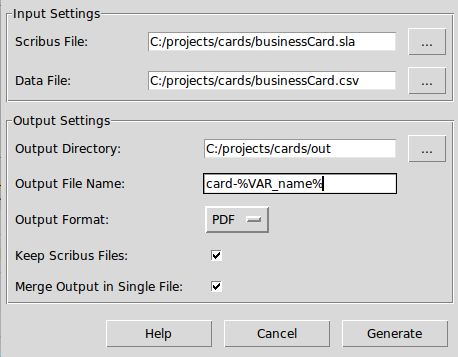
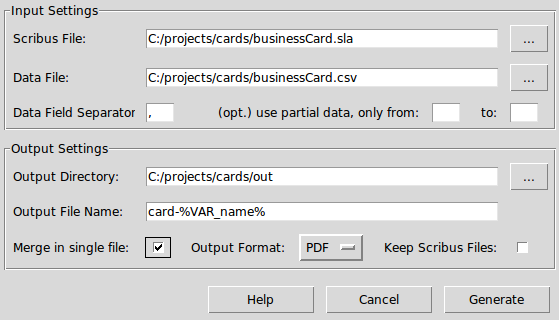
range functionality: added to GUI and documentation

diff --git a/ScribusGenerator.py b/ScribusGenerator.py
@@ -50,6 +50,10 @@ class GeneratorControl:
         self.__selectedOutputFormat.set(CONST.FORMAT_PDF)
         self.__keepGeneratedScribusFilesCheckboxVariable = IntVar()
         self.__mergeOutputCheckboxVariable = IntVar()
+        self.__fromVariable = StringVar()
+        self.__fromVariable.set(CONST.EMPTY)
+        self.__toVariable = StringVar()
+        self.__toVariable.set(CONST.EMPTY)
         self.__root = root
         if scribus.haveDoc():
             doc = scribus.getDocName()
@@ -103,6 +107,12 @@ class GeneratorControl:
     def getMergeOutputCheckboxVariable(self):
         return self.__mergeOutputCheckboxVariable
   
+    def getFromVariable(self):
+        return self.__fromVariable
+  
+    def getToVariable(self):
+        return self.__toVariable
+
     def allValuesSet(self):
         # Simple check whether input fields are NOT EMPTY.
         # The user could fill in crap into the input fields. This would lead to an error, but crap in crap out!
@@ -124,7 +134,9 @@ class GeneratorControl:
             outputFormat = self.__selectedOutputFormat.get(),
             keepGeneratedScribusFiles = self.__keepGeneratedScribusFilesCheckboxVariable.get(),
             csvSeparator = self.__dataSeparatorEntryVariable.get(), 
-            singleOutput = self.__mergeOutputCheckboxVariable.get()
+            singleOutput = self.__mergeOutputCheckboxVariable.get(),
+            firstRow = self.__fromVariable.get(),
+            lastRow = self.__toVariable.get()
             )
         return result
     
@@ -149,7 +161,7 @@ class GeneratorControl:
             tkMessageBox.showerror(title='Validation failed', message='Please check if all settings have been set correctly!')
     
     def helpButtonHandler(self):
-        tkMessageBox.showinfo('Help', message="For any information please visit:\nhttps://github.com/berteh/ScribusGenerator/")
+        tkMessageBox.showinfo('Help', message="More information at :\nhttps://github.com/berteh/ScribusGenerator/")
  
 class GeneratorDialog:
     # The UI to configure the settings by the user
@@ -190,55 +202,69 @@ class GeneratorDialog:
         # Input-Settings
         scribusSourceFileLabel = Label(inputFrame, text='Scribus File:', width=15, anchor='w')
         scribusSourceFileLabel.grid(column=0, row=0, padx=5, pady=5, sticky='w')
-        scribusSourceFileEntry = Entry(inputFrame, width=70, textvariable=self.__ctrl.getScribusSourceFileEntryVariable())
-        scribusSourceFileEntry.grid(column=1, row=0, padx=5, pady=5, sticky='ew')
+        scribusSourceFileEntry = Entry(inputFrame, textvariable=self.__ctrl.getScribusSourceFileEntryVariable())
+        scribusSourceFileEntry.grid(column=1, columnspan=4, row=0, padx=5, pady=5, sticky='ew')
         scribusSourceFileButton = Button(inputFrame, text='...', command=self.__ctrl.scribusSourceFileEntryVariableHandler)
-        scribusSourceFileButton.grid(column=2, row=0, padx=5, pady=5, sticky='e')
+        scribusSourceFileButton.grid(column=5, row=0, padx=5, pady=5, sticky='e')
         
         dataSourceFileLabel = Label(inputFrame, text='Data File:', width=15, anchor='w')
         dataSourceFileLabel.grid(column=0, row=1, padx=5, pady=5, sticky='w')
-        dataSourceFileEntry = Entry(inputFrame, width=70, textvariable=self.__ctrl.getDataSourceFileEntryVariable())
-        dataSourceFileEntry.grid(column=1, row=1, padx=5, pady=5, sticky='ew')
+        dataSourceFileEntry = Entry(inputFrame, textvariable=self.__ctrl.getDataSourceFileEntryVariable())
+        dataSourceFileEntry.grid(column=1, columnspan=4, row=1, padx=5, pady=5, sticky='ew')
         dataSourceFileButton = Button(inputFrame, text='...', command=self.__ctrl.dataSourceFileEntryVariableHandler)
-        dataSourceFileButton.grid(column=2, row=1, padx=5, pady=5, sticky='e')
+        dataSourceFileButton.grid(column=5, row=1, padx=5, pady=5, sticky='e')
         
         dataSeparatorLabel = Label(inputFrame, text='Data Field Separator:', width=15, anchor='w')
         dataSeparatorLabel.grid(column=0, row=2, padx=5, pady=5, sticky='w')
         dataSeparatorEntry = Entry(inputFrame, width=3, textvariable=self.__ctrl.getDataSeparatorEntryVariable())
         dataSeparatorEntry.grid(column=1, row=2, padx=5, pady=5, sticky='w')
 
+        fromLabel = Label(inputFrame, text='(opt.) use partial data, only from:', anchor='e')
+        fromLabel.grid(column=2, row=2, padx=5, pady=5, sticky='e')
+        fromEntry = Entry(inputFrame, width=3, textvariable=self.__ctrl.getFromVariable())
+        fromEntry.grid(column=3, row=2, padx=5, pady=5, sticky='w')
+
+        toLabel = Label(inputFrame, text='to:', width=3, anchor='e')
+        toLabel.grid(column=4, row=2, padx=5, pady=5, sticky='e')
+        toEntry = Entry(inputFrame, width=3, textvariable=self.__ctrl.getToVariable())
+        toEntry.grid(column=5, row=2, padx=5, pady=5, sticky='w')
+
+        #rangeHelp = Label(inputFrame, text='(set to 0 to neglect)', width=30, anchor='w')
+        #rangeHelp.grid(column=4, columnspan=2,  row=4, padx=5, pady=5, sticky='w')
+   
+
 
         # Output-Settings
         outputDirectoryLabel = Label(outputFrame, text='Output Directory:', width=15, anchor='w')
         outputDirectoryLabel.grid(column=0, row=0, padx=5, pady=5, sticky='w')
-        outputDirectoryEntry = Entry(outputFrame, width=70, textvariable=self.__ctrl.getOutputDirectoryEntryVariable())
-        outputDirectoryEntry.grid(column=1, row=0, padx=5, pady=5, sticky='ew')
+        outputDirectoryEntry = Entry(outputFrame, textvariable=self.__ctrl.getOutputDirectoryEntryVariable())
+        outputDirectoryEntry.grid(column=1, columnspan=4, row=0, padx=5, pady=5, sticky='ew')
         outputDirectoryButton = Button(outputFrame, text='...', command=self.__ctrl.outputDirectoryEntryVariableHandler)
-        outputDirectoryButton.grid(column=2, row=0, padx=5, pady=5, sticky='e')
+        outputDirectoryButton.grid(column=5, row=0, padx=5, pady=5, sticky='e')
         
         outputFileNameLabel = Label(outputFrame, text='Output File Name:', width=15, anchor='w')
         outputFileNameLabel.grid(column=0, row=1, padx=5, pady=5, sticky='w')
-        outputFileNameEntry = Entry(outputFrame, width=70, textvariable=self.__ctrl.getOutputFileNameEntryVariable())
-        outputFileNameEntry.grid(column=1, row=1, padx=5, pady=5, sticky='ew')
+        outputFileNameEntry = Entry(outputFrame, textvariable=self.__ctrl.getOutputFileNameEntryVariable())
+        outputFileNameEntry.grid(column=1, columnspan=4, row=1, padx=5, pady=5, sticky='ew')
          
-        keepGeneratedScribusFilesLabel = Label(outputFrame, text='Keep Scribus Files:', width=15, anchor='w')
-        keepGeneratedScribusFilesLabel.grid(column=0, row=3, padx=5, pady=5, sticky='w')
-        keepGeneratedScribusFilesCheckbox = Checkbutton(outputFrame, variable=self.__ctrl.getKeepGeneratedScribusFilesCheckboxVariable())
-        keepGeneratedScribusFilesCheckbox.grid(column=1, row=3, padx=5, pady=5, sticky='w')
-
-
-        mergeOutputLabel = Label(outputFrame, text='Merge Output in Single File:', width=22, anchor='w')
-        mergeOutputLabel.grid(column=0, row=4, padx=5, pady=5, sticky='w')
+        mergeOutputLabel = Label(outputFrame, text='Merge in Single File:', width=15, anchor='w')
+        mergeOutputLabel.grid(column=0, row=2, padx=5, pady=5, sticky='w')
         mergeOutputCheckbox = Checkbutton(outputFrame, variable=self.__ctrl.getMergeOutputCheckboxVariable())
-        mergeOutputCheckbox.grid(column=1, row=4, padx=5, pady=5, sticky='w')
+        mergeOutputCheckbox.grid(column=1, row=2, padx=5, pady=5, sticky='w')  
 
-        
-        outputFormatLabel = Label(outputFrame, text='Output Format:', width=15, anchor='w')
-        outputFormatLabel.grid(column=0, row=2, padx=5, pady=5, sticky='w')
-        outputFormatListBox = OptionMenu(outputFrame, self.__ctrl.getSelectedOutputFormat(), *self.__ctrl.getOutputFormatList()) #, 
+        outputFormatLabel = Label(outputFrame, text='Output Format:', anchor='e')
+        outputFormatLabel.grid(column=2, row=2, padx=5, pady=5, sticky='e')
+        outputFormatListBox = OptionMenu(outputFrame, self.__ctrl.getSelectedOutputFormat(), *self.__ctrl.getOutputFormatList()) #,
             #command=lambda l=keepGeneratedScribusFilesLabel, c=keepGeneratedScribusFilesCheckbox, v=self.__ctrl.getSelectedOutputFormat(): self.updateDisabled(v, l,c))
-        outputFormatListBox.grid(column=1, row=2, padx=5, pady=5, sticky='w')
+        outputFormatListBox.grid(column=3, row=2, padx=5, pady=5, sticky='w')
       
+        keepGeneratedScribusFilesLabel = Label(outputFrame, text='Keep Scribus Files:', width=15, anchor='e')
+        keepGeneratedScribusFilesLabel.grid(column=4, row=2, padx=5, pady=5, sticky='e')
+        keepGeneratedScribusFilesCheckbox = Checkbutton(outputFrame, variable=self.__ctrl.getKeepGeneratedScribusFilesCheckboxVariable(), anchor='w')
+        keepGeneratedScribusFilesCheckbox.grid(column=5, row=2, padx=5, pady=5, sticky='w')
+
+       
+
         # Buttons to Cancel or to Run the Generator with the given Settings
         helpButton = Button(buttonFrame, text='Help', width=10, command=self.__ctrl.helpButtonHandler)
         helpButton.grid(column=0, row=0, padx=5, pady=5, sticky='e')

diff --git a/ScribusGeneratorCLI.py b/ScribusGeneratorCLI.py
@@ -78,9 +78,9 @@ parser.add_argument('-s', '--single', action='store_true', default=False,
 parser.add_argument('-v', '--verbose', action='store_true', default=False,
     help='print detailed progress information on the command line.')
 parser.add_argument('-from', '--firstrow', default=None, type=int, dest='firstRow',
-    help='Starting row of data to merge. First row after the header-row = 1. If not provided data merge will start at the first row.')
+    help='Starting row of data to merge (not counting the header row), first row by default.')
 parser.add_argument('-to', '--lastrow', default=None, type=int, dest='lastRow',
-    help='The last row of data to merge. If there are 4 rows of data after the header-row the last row is 4. If not provided data merge will end at the last row.')
+    help='Last row of data to merge (not counting the header row), last row by default.')
 
 
 def message(*msg):

diff --git a/README.md b/README.md
@@ -18,22 +18,22 @@ What is Scribus Generator?
 
 Scribus comes with a broad set of page layout features and functionality. One feature missing is to replace text with data dynamically. This kind of feature you may already know as the typical __mail merge__ functionality in your preferred office application.
 
-**Scribus Generator** fills this lack of functionality. **Scribus Generator** in general is an extension to replace text with data to automatic generated files (e.g. SLA, PDF). It has been written by [Ekkehard Will](http://www.ekkehardwill.de/sg/) and further extended by [Berteh](https://github.com/berteh/).
+**Scribus Generator** fills this lack of functionality. **Scribus Generator** in general is an extension to replace text with data to automaticaly generate files (e.g. SLA, PDF). It has been originaly written by [Ekkehard Will](http://www.ekkehardwill.de/sg/) and further extended by [Berteh](https://github.com/berteh/).
 
-**Scribus Generator** is implemented as a Python script. It simply can be started by choosing the script (``ScribusGenerator.py``) within the dialog: _«Scribus → Script → Execute Script»_.
+**Scribus Generator** can be started by choosing the script (``ScribusGenerator.py``) within the dialog: _«Scribus → Script → Execute Script»_, or used from the [command line](#running-scribus-generator-from-the-command-line). It is implemented as a Python script. 
 
-[Download](https://github.com/berteh/ScribusGenerator/archive/master.zip) the script and uncompress it anywhere on the local machine. It can be placed with  the standard extension scripts. On Windows platform this location would be ``SCRIBUS_INSTALL_DIRECTORY\share\scripts\``, on Ubuntu ``/usr/share/scribus/scripts/``.
+[Download](https://github.com/berteh/ScribusGenerator/archive/master.zip) the script and uncompress it anywhere on the local machine. It can be placed with the standard extension scripts. On Windows platform this location would be ``SCRIBUS_INSTALL_DIRECTORY\share\scripts\``, on Ubuntu ``/usr/share/scribus/scripts/``.
 
-A [short *how to* video](https://www.youtube.com/embed/kMsRn38TOiQ) introduces this Scribus Generator. 6 first minutes for the basic overview, 12 last for more advanced features.
+A [short *how to* video](https://www.youtube.com/watch/kMsRn38TOiQ) introduces this Scribus Generator. 6 first minutes for the basic overview, 12 last for some more advanced features.
 
 
-[![Scribus Generator how to - high quality pdf generation](pic/screencast.png)](https://www.youtube.com/embed/kMsRn38TOiQ)
+[![Scribus Generator how to - high quality pdf generation](pic/screencast.png)](https://www.youtube.com/watch/kMsRn38TOiQ)
 
 
 The Scribus "template" file
 ------
 
-Create and design your Scribus file as any other. At the positions where you need to replace text with data, just add ``%VAR_name%`` where ``name`` is the column in the data table.
+Create and design your Scribus file as any other. At the positions where you need to replace text with data, just add ``%VAR_name%`` where ``name`` is the column your  data file.
 
 You can place the variable at any position within a Text Frame. Apply all format and style to the variable that you wish to apply to the final text.
 
@@ -43,7 +43,7 @@ You can place the variable at any position within a Text Frame. Apply all format
 The (csv) Data File
 --------
 
-**Scribus Generator** expects a CSV file (_Comma Separated Values_), which is very simple to create. Open a spread sheet editor (such as [LibreOffice](http://www.libreoffice.org/) or Excel), enter the data and save/export as CSV. UTF-8 encoding is recommended.
+**Scribus Generator** expects a CSV file (_Comma Separated Values_), which is very simple to create with a standard spread sheet editor (such as [LibreOffice](http://www.libreoffice.org/) or Excel): enter the data and save/export as CSV. UTF-8 encoding is recommended.
 
 ![Illustration: Data File for Generator](pic/SG-05.png)
 
@@ -59,15 +59,20 @@ In the script dialog you can configure the input and output settings for **Scrib
 
 ![Illustration: Input and Output Settings](pic/SG-10.png)
 
-| Setting | explanation |
+| Input Setting | explanation |
 | ---- | ---- |
 | **Scribus File** | Choose the Scribus File containing the variables to replace. |
 | **Data File** | Choose the Data File containing the comma separated values. |
+| **Data Field Separator** | Character that delimitates data field in your CSV file, comma (,) by default. |
+| **From - To** | To run Scribus Generator on a subset of your data mention the starting and/or last lines of this subset, not counting the header line. Simply leave empty to generate from the beginning (or to the last) data entry.|
+
+| Output Setting | explanation |
+| ---- | ---- |
 | **Output Directory** | Choose the path to an existing directory where to save the result. |
 | **Output File Name** | You can use the same variables as defined in the Scribus File/Data File. You can also mix the variables with other characters. If you leave the field empty an index will be used. The index/resulting files will be sorted according to the occurrence of rows in the Data File. |
+| **Merge in Single File** | Select to  generate a single output (SLA and/or PDF) file that combines all data rows. |
 | **Ouput Format** | Choose the Output Format of the generated files, either PDF or Scribus. |
 | **Keep Scribus Files** | Select to keep the generated Scribus Files. Otherwise they will be deleted after pdf generation. This option has no effect if you choose Scribus output format.|
-| **Merge Output in Single File** | Select to  generate a single output (SLA and/or PDF) file that combines all data rows. |
 
 
 Dynamic Images
@@ -165,6 +170,14 @@ Find all needed information from the script help: ``./ScribusGeneratorCLI.py --h
                             combines all data rows, for each source file.
       -v, --verbose         print detailed progress information on the command
                             line.
+      -from FIRSTROW, --firstrow FIRSTROW
+                            Starting row of data to merge (not counting the header
+                            row), first row by default.
+      -to LASTROW, --lastrow LASTROW
+                            Last row of data to merge (not counting the header
+                            row), last row by default.
+
+
 
     requirements
       This program requires Python 2.7+
